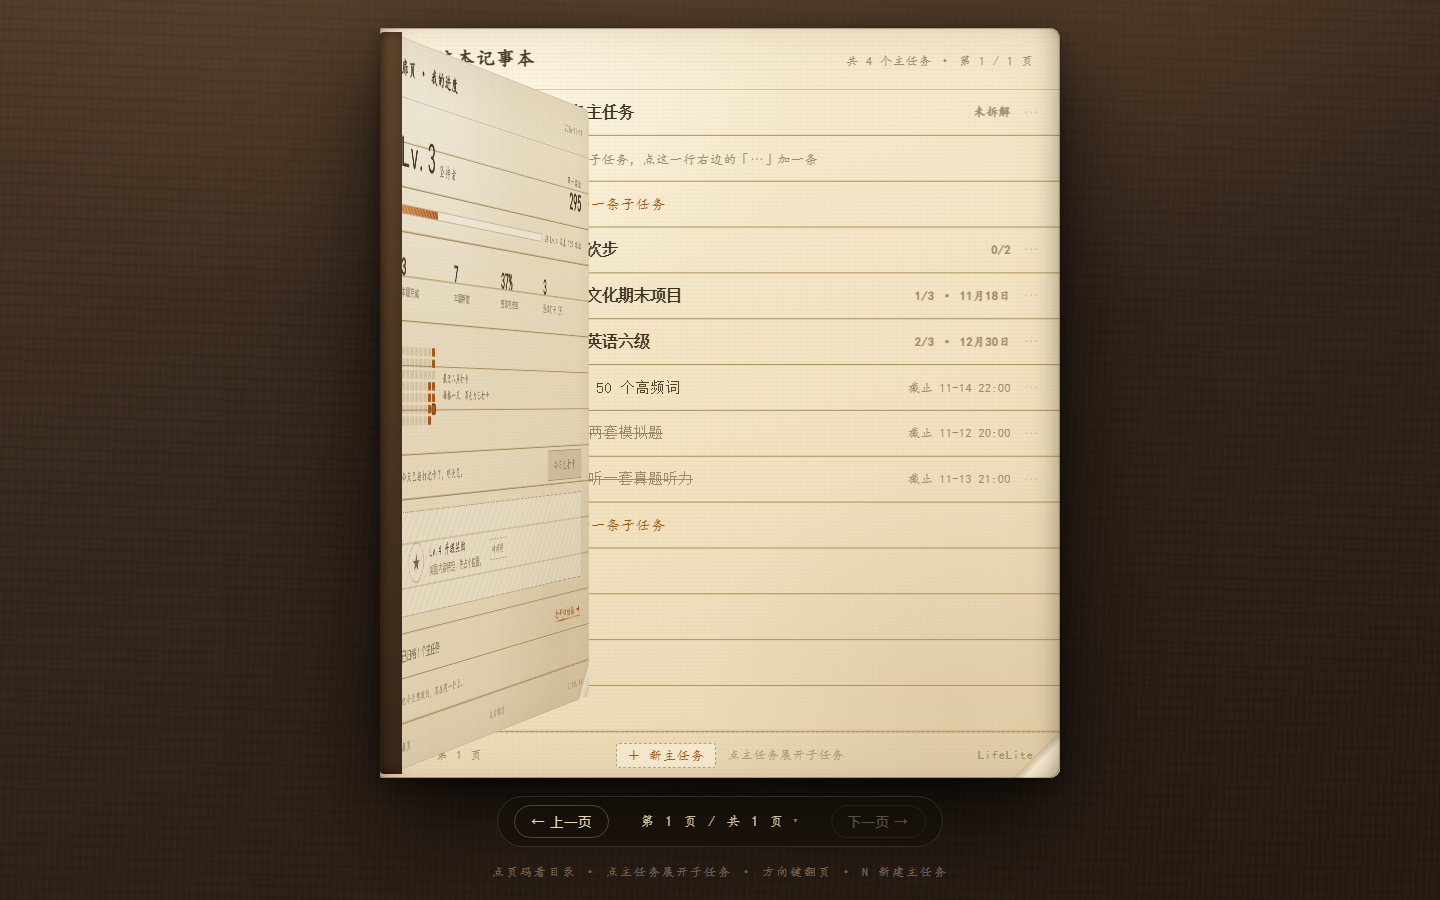
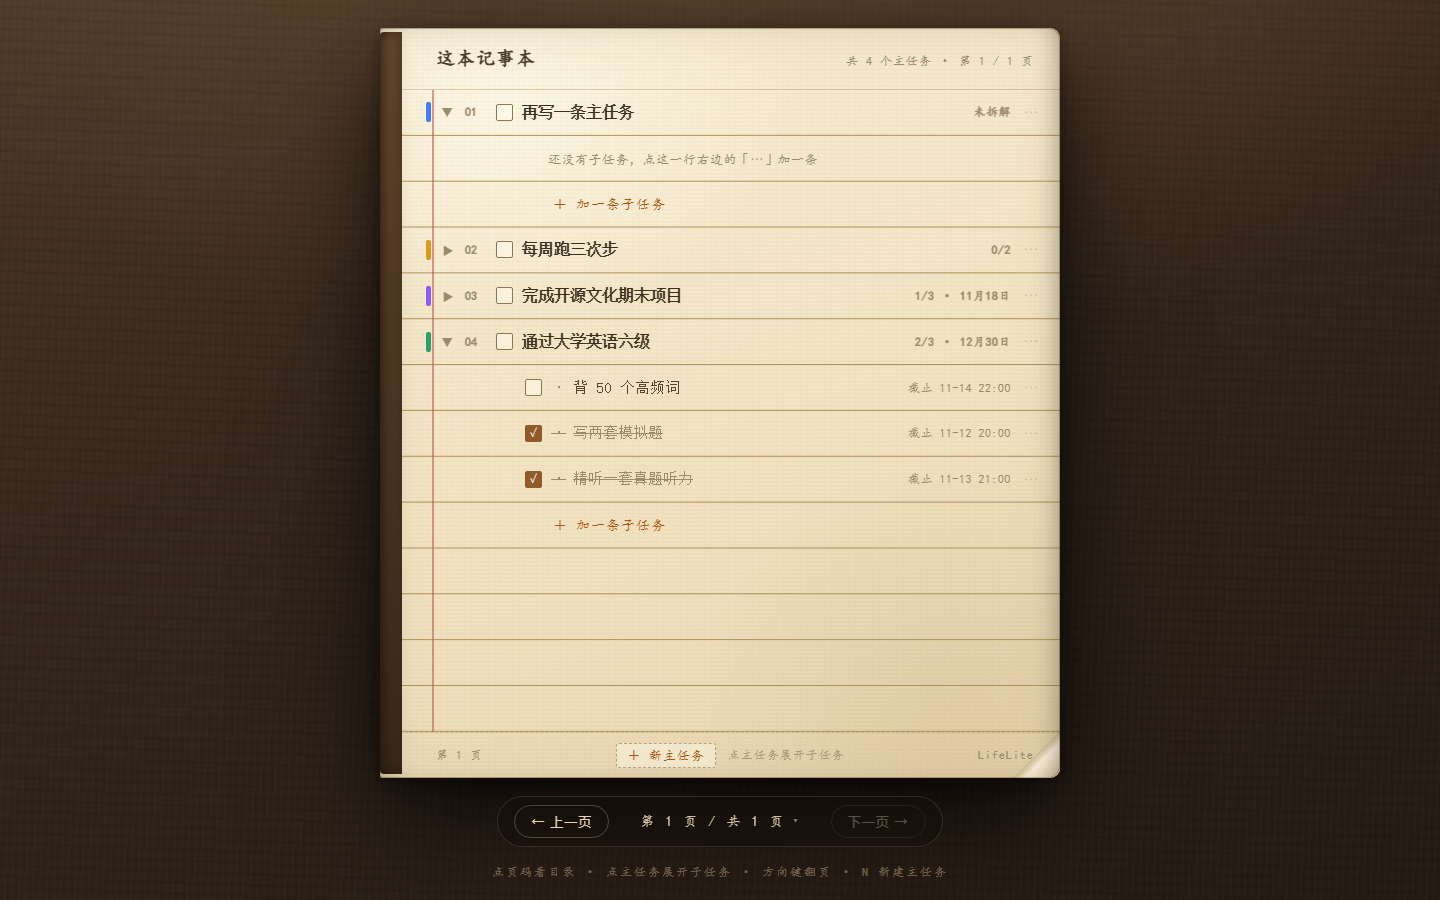
chore(assets): 静态资源加版本参数与 SW v5，避免旧缓存

Changed region(s): [[0.2812, 0.0622, 0.4062, 0.8089]]

diff --git a/index.html b/index.html
@@ -6,10 +6,10 @@
   <title>LifeLite 学习目标记事本</title>
   <meta name="description" content="橙色封面的翻页记事本：主任务逐行写下，子任务缩进跟随，每天翻一页，把想做的事一页一页写完。">
   <meta name="theme-color" content="#c86a22">
-  <link rel="manifest" href="manifest.json">
-  <link rel="icon" href="icons/icon-192.png" type="image/png">
-  <link rel="apple-touch-icon" href="icons/icon-192.png">
-  <link rel="stylesheet" href="css/style.css">
+  <link rel="manifest" href="manifest.json?v=5">
+  <link rel="icon" href="icons/icon-192.png?v=5" type="image/png">
+  <link rel="apple-touch-icon" href="icons/icon-192.png?v=5">
+  <link rel="stylesheet" href="css/style.css?v=5">
 </head>
 <body>
   <a class="skip-link" href="#sheet">跳到记事本</a>
@@ -125,12 +125,12 @@
     </form>
   </dialog>
 
-  <script src="js/storage.js"></script>
-  <script src="js/profile.js"></script>
-  <script src="js/goals.js"></script>
-  <script src="js/tasks.js"></script>
-  <script src="js/stats.js"></script>
-  <script src="js/book.js"></script>
-  <script src="js/app.js"></script>
+  <script src="js/storage.js?v=5"></script>
+  <script src="js/profile.js?v=5"></script>
+  <script src="js/goals.js?v=5"></script>
+  <script src="js/tasks.js?v=5"></script>
+  <script src="js/stats.js?v=5"></script>
+  <script src="js/book.js?v=5"></script>
+  <script src="js/app.js?v=5"></script>
 </body>
 </html>

diff --git a/tests/static-check.js b/tests/static-check.js
@@ -85,14 +85,15 @@ html.replace(/(?:src|href)="([^"#]+)"/g, (match, url) => {
   return match;
 });
 assetRefs.forEach((url) => {
-  if (!exists(url)) fail('index.html 引用的资源不存在：' + url);
+  const clean = url.split('?')[0];
+  if (!exists(clean)) fail('index.html 引用的资源不存在：' + url);
 });
 notes.push('index.html 引用 ' + assetRefs.length + ' 个本地资源');
 
 /* ------------------------- 5. 脚本顺序 ------------------------- */
 const scriptOrder = [];
 html.replace(/<script\s+src="([^"]+)"/g, (match, src) => {
-  scriptOrder.push(src);
+  scriptOrder.push(src.split('?')[0]);
   return match;
 });
 const expectedOrder = [
@@ -135,7 +136,7 @@ if (!shellBlock) {
   });
   listed.forEach((item) => {
     if (item === './') return;
-    const rel = item.replace(/^\.\//, '');
+    const rel = item.replace(/^\.\//, '').split('?')[0];
     if (!exists(rel)) fail('APP_SHELL 里列出的文件不存在：' + item);
   });
   // 页面引用的静态资源都应进缓存清单，避免「断网打开少文件」

diff --git a/sw.js b/sw.js
@@ -16,25 +16,25 @@
 
 'use strict';
 
-const CACHE_VERSION = 'lifelite-v4';
+const CACHE_VERSION = 'lifelite-v5';
 const CACHE_NAME = CACHE_VERSION;
 
 /* 应用外壳：只要这些文件在，断网也能完整使用 */
 const APP_SHELL = [
   './',
-  './index.html',
-  './css/style.css',
-  './js/storage.js',
-  './js/profile.js',
-  './js/goals.js',
-  './js/tasks.js',
-  './js/stats.js',
-  './js/book.js',
-  './js/app.js',
-  './manifest.json',
-  './icons/icon-192.png',
-  './icons/icon-512.png',
-  './icons/icon-512-maskable.png'
+  './index.html?v=5',
+  './css/style.css?v=5',
+  './js/storage.js?v=5',
+  './js/profile.js?v=5',
+  './js/goals.js?v=5',
+  './js/tasks.js?v=5',
+  './js/stats.js?v=5',
+  './js/book.js?v=5',
+  './js/app.js?v=5',
+  './manifest.json?v=5',
+  './icons/icon-192.png?v=5',
+  './icons/icon-512.png?v=5',
+  './icons/icon-512-maskable.png?v=5'
 ];
 
 /* 安装：预缓存外壳；任何一个文件抓取失败就整体失败，避免留下半套缓存 */
